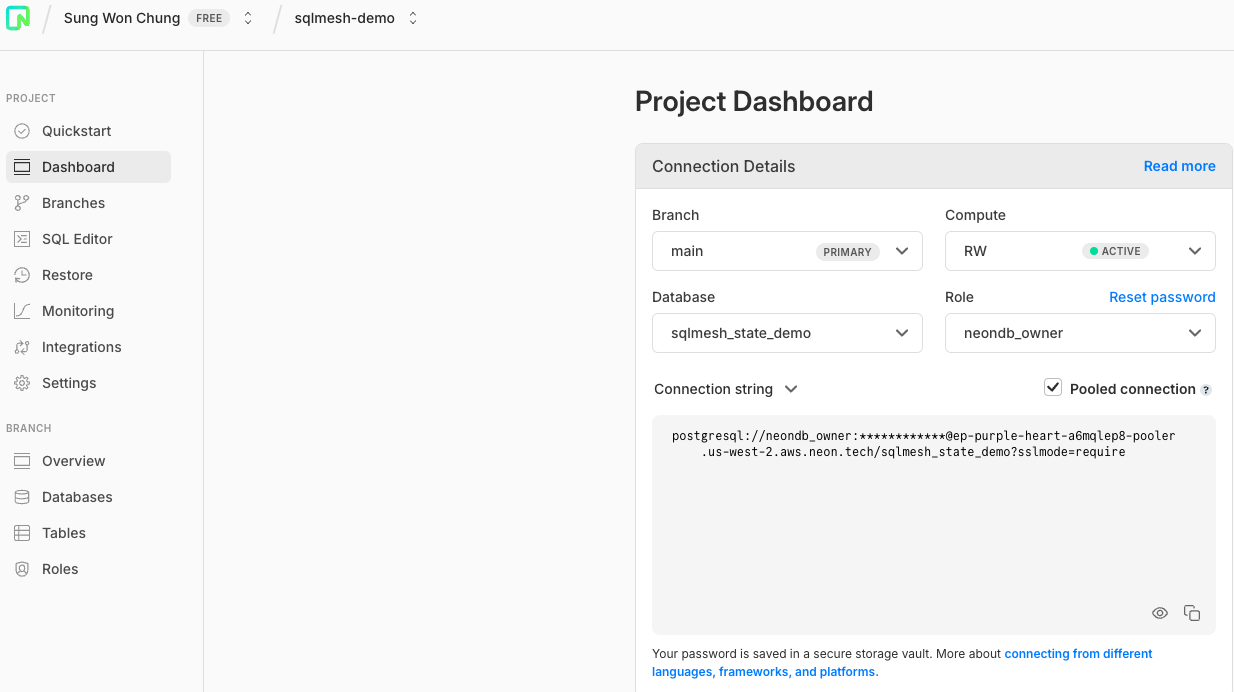
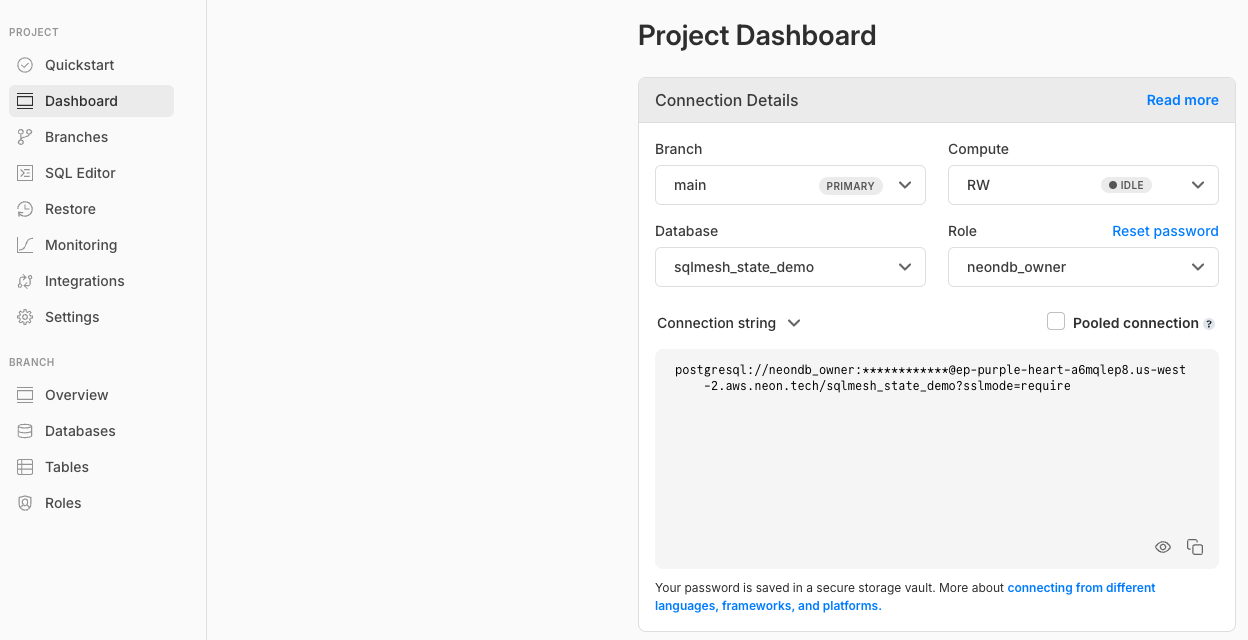
remove unncessary extra step

diff --git a/README.md b/README.md
@@ -57,12 +57,10 @@ source venv/bin/activate # reactivate virtual environment
 
 ```bash
 # examples based on the image above
-export SQLMESH_STATE_HOST=ep-purple-heart-a6mqlep8-pooler.us-west-2.aws.neon.tech
+export SQLMESH_STATE_HOST=ep-purple-heart-a6mqlep8.us-west-2.aws.neon.tech
 export SQLMESH_STATE_USERNAME=<your-neon-username>
 export SQLMESH_STATE_PASSWORD=<your-password-blurred-in-the-image>
 ```
-
-4. Click on the Pooled connection box ✔ to increase concurrent connection limits
 
 **Verify SQLMesh can connect to BigQuery and Postgres:**
 
